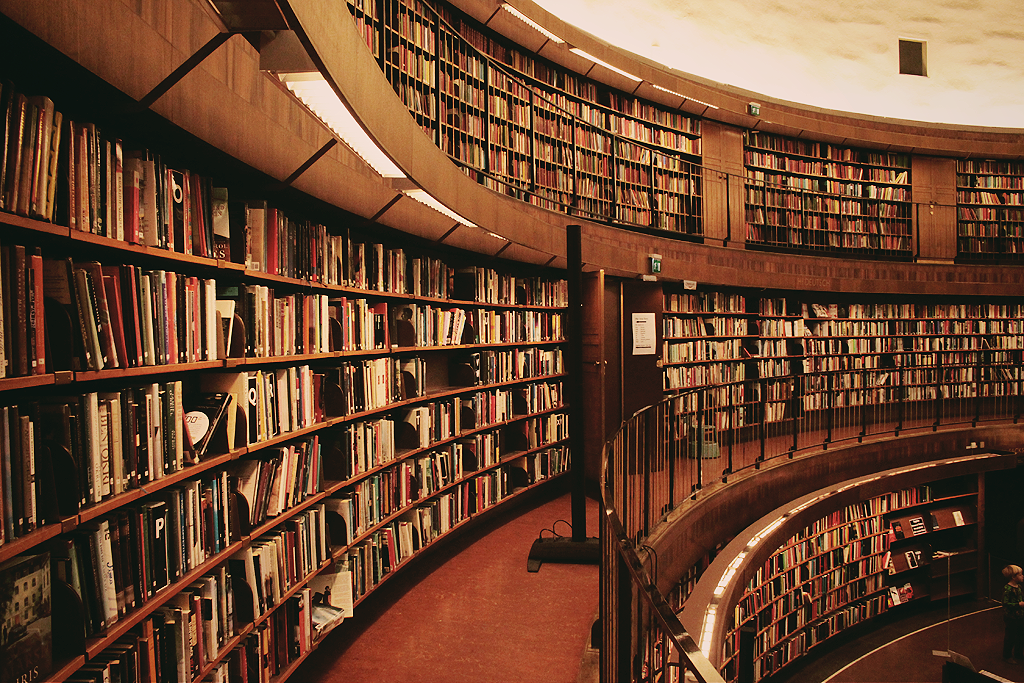
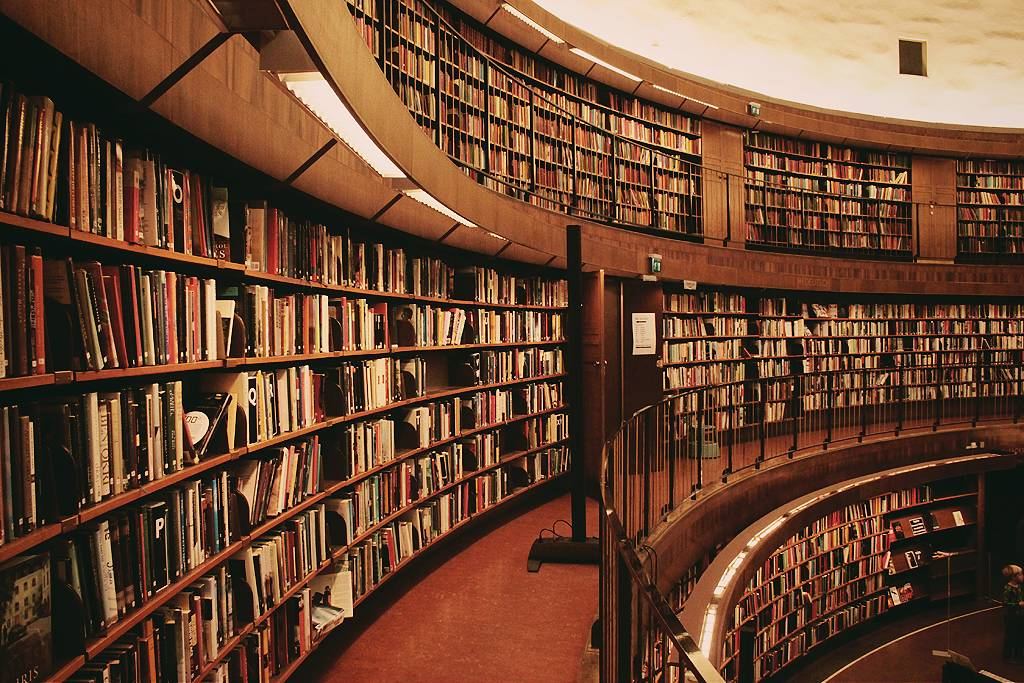
update

diff --git a/src/Components/header/Header.jsx b/src/Components/header/Header.jsx
@@ -20,7 +20,7 @@ export default function Header() {
 
   return (
     <>
-      <div className="w-full flex bg-[#ffffff4d] text-white lg:justify-between sm:max-md:justify-between lg:px-25 md:px-5 px-3 py-6  items-center absolute  top-0 z-20">
+      <div className="w-full flex bg-[#c8bfbf26] text-white lg:justify-between sm:max-md:justify-between lg:px-25 md:px-5 px-3 py-6  items-center absolute  top-0 z-20">
         <div ref={navRef} className="flex lg:gap-20 sm:max-md:gap-10  md:gap-5 grow">
           <Logo />
           <Nav opn={opn} setopn={setopn} />

diff --git a/src/Components/homepage/Img.jsx b/src/Components/homepage/Img.jsx
@@ -5,6 +5,7 @@ export default function Img() {
     <>
               <div className=" w-full lg:h-200 h-100 inset-0">
           <img
+          
             className=" object-cover w-full h-full rotate-180   top-0 "
             src="/imglogin.png"
             alt=""
